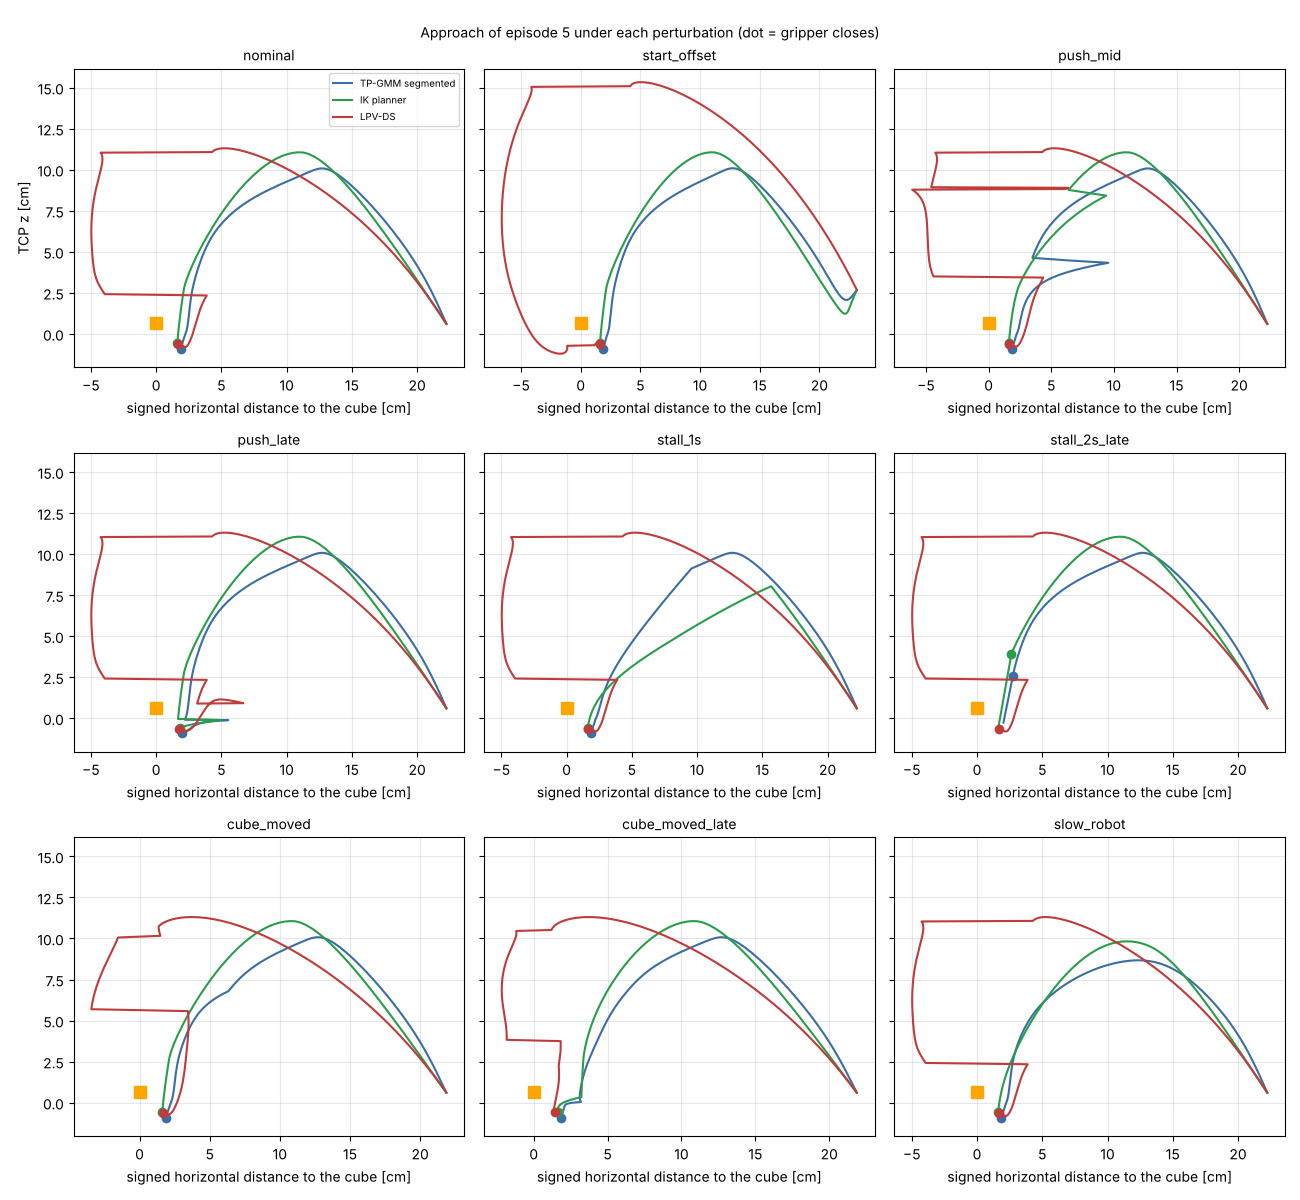
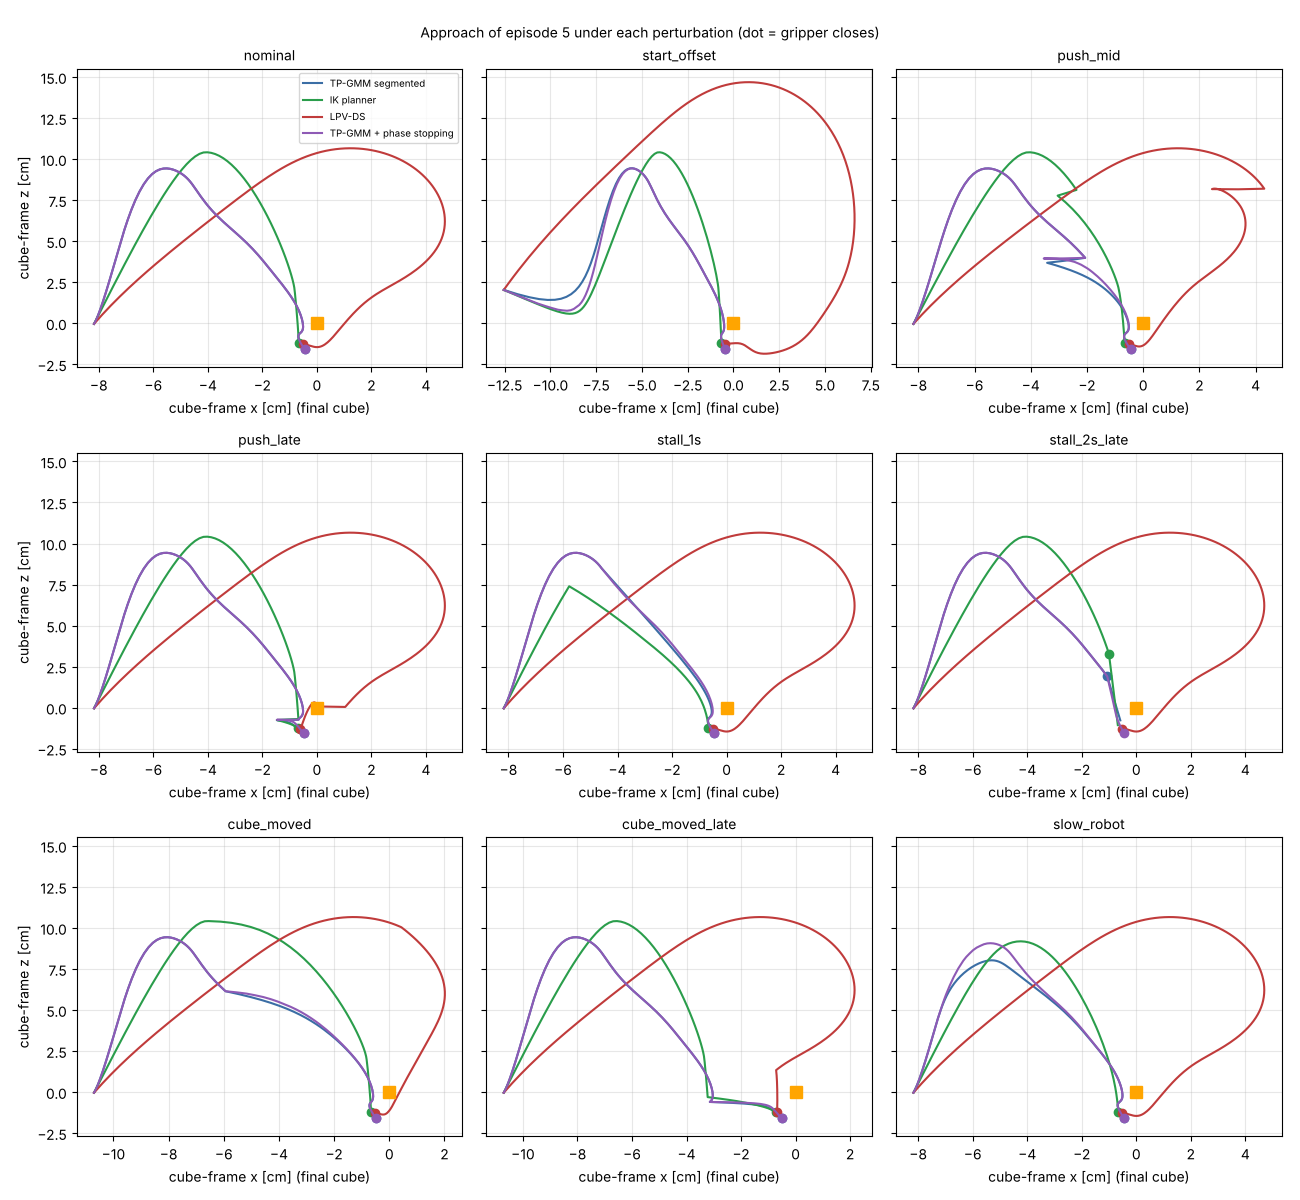
LPV-DS: gripper closes to the demonstrated holding level; perturbation report
- gripper on arrival = median final demonstrated value (the smooth g(d)
  map averages open and closed jaws near contact: 43 instead of ~20)
- perturbation benchmark: per-controller phase timing, fixed reference for
  the late cube move, cube-frame example plot, overshoot statistic and a
  computed reading (time-indexed tracking fails only under late stalls;
  phase stopping and LPV-DS do not)

Claude-Session: https://claude.ai/code/session_01KcAuLZM4HpM37KjBt7oyNQ

diff --git a/scripts/perturbation_benchmark.py b/scripts/perturbation_benchmark.py
@@ -154,7 +154,7 @@ class DSController:
             X.append(state[:3].copy()), G.append(state[4])
             if self.policy.distance("approach_grasp", state, frames["approach_grasp"]) < self.policy.meta["end_tolerance"]:
                 for _ in range(int(self.policy.meta["settle_s"] / DT)):  # gripper closes in place
-                    g = self.policy.prims["approach_grasp"].gripper_at(0.0)
+                    g = self.policy.prims["approach_grasp"].gripper_on_arrival()
                     state[4] += np.clip(g - state[4], -DT * 200, DT * 200)
                     X.append(state[:3].copy()), G.append(state[4])
                 break
@@ -226,10 +226,18 @@ def main() -> None:
                         nominal["pt"] = X[ig]
                     ref_pt = nominal["pt"]
                 dev = float(np.linalg.norm(X[ig] - ref_pt))
+                phi_f = lpv.frames(cube_final, yaw)[0]["approach_grasp"][1]
+                overshoot = float(((X[: ig + 1] - cube_final) @ rot_z(phi_f))[:, 0].max())  # beyond the cube, outward
                 rows.append(dict(cycle=int(r.episode), controller=cname, scenario=sname, deviation_mm=dev * 1e3,
-                                 success=dev < 0.010, time_to_grasp_s=ig * DT, peak_cmd_speed=umax))
+                                 success=dev < 0.010, time_to_grasp_s=ig * DT, peak_cmd_speed=umax,
+                                 overshoot_cm=overshoot * 100))
                 if i == 0:
-                    examples[(cname, sname)] = (X, ig, cube_final)
+                    phi_c = lpv.frames(cube_final, yaw)[0]["approach_grasp"][1]
+                    examples[(cname, sname)] = (X, ig, cube_final, phi_c)
+    for i, d in enumerate(demos["approach_grasp"]):  # same statistic for the demonstrations
+        Lc = (d.X[:, 1:4] - d.cube[:3]) @ rot_z(d.cube[3])
+        rows.append(dict(cycle=int(sub.episode[i]), controller="demonstration", scenario="nominal",
+                         overshoot_cm=float(Lc[:, 0].max() * 100)))
     res = pd.DataFrame(rows)
     out = resolve_path("outputs/evaluation")
     out.mkdir(parents=True, exist_ok=True)
@@ -242,6 +250,8 @@ def main() -> None:
 def write_report(res, examples, r0, seg, args, v_max, T_med) -> None:
     fig_dir = resolve_path("docs/figures")
     plt.rcParams.update({"axes.grid": True, "grid.alpha": 0.3})
+    demo_rows = res[res.controller == "demonstration"]
+    res = res[res.controller != "demonstration"]
     ctrl = list(dict.fromkeys(res.controller))
     colors = {"TP-GMM segmented": "#3b6ea5", "IK planner": "#2a9d4b", "LPV-DS": "#c03b3b",
               "TP-GMM + phase stopping": "#8e5ab5"}
@@ -249,15 +259,15 @@ def write_report(res, examples, r0, seg, args, v_max, T_med) -> None:
     axs = axs.ravel()
     for ax, s in zip(axs, SCENARIOS):
         for c in ctrl:
-            X, ig, cube = examples[(c, s)]
-            phi = 0.0
-            ax.plot(np.linalg.norm(X[:, :2] - cube[:2], axis=1) * 100 * np.sign(X[:, 0] - cube[0] + 1e-9) * -1,
-                    X[:, 2] * 100, c=colors[c], label=c)
-            ax.plot(-np.linalg.norm(X[ig, :2] - cube[:2]) * 100 * np.sign(X[ig, 0] - cube[0] + 1e-9), X[ig, 2] * 100,
-                    "o", c=colors[c], ms=6)
-        ax.plot(0, cube[2] * 100, "s", c="orange", ms=9)
-        ax.set_title(s, fontsize=10); ax.set_xlabel("signed horizontal distance to the cube [cm]")
-    axs[0].set_ylabel("TCP z [cm]"); axs[0].legend(fontsize=7)
+            X, ig, cube, phi = examples[(c, s)]
+            Lc = (X - cube) @ rot_z(phi)  # cube frame (x outward from the robot)
+            ax.plot(Lc[:, 0] * 100, Lc[:, 2] * 100, c=colors[c], label=c)
+            ax.plot(Lc[ig, 0] * 100, Lc[ig, 2] * 100, "o", c=colors[c], ms=6)
+        ax.plot(0, 0, "s", c="orange", ms=9)
+        ax.set_title(s, fontsize=10); ax.set_xlabel("cube-frame x [cm] (final cube)")
+    for ax in axs[::3]:
+        ax.set_ylabel("cube-frame z [cm]")
+    axs[0].legend(fontsize=7)
     fig.suptitle(f"Approach of episode {int(r0.episode)} under each perturbation (dot = gripper closes)", fontsize=10)
     fig.tight_layout(); fig.savefig(fig_dir / "perturbation_example.png", dpi=100); plt.close(fig)
 
@@ -298,7 +308,45 @@ def write_report(res, examples, r0, seg, args, v_max, T_med) -> None:
             x = res[(res.controller == c) & (res.scenario == s)]
             L.append(f"| {s} | {c} | {x.deviation_mm.median():.1f} | {x.deviation_mm.quantile(0.9):.1f} | "
                      f"{100 * x.success.mean():.0f} % | {x.time_to_grasp_s.median():.2f} | {x.peak_cmd_speed.median():.2f} |")
-    L += ["", "![](figures/perturbation_summary.png)\n", "![](figures/perturbation_example.png)\n"]
+    def med(c, sc, col="deviation_mm"):
+        return res[(res.controller == c) & (res.scenario == sc)][col].median()
+
+    def succ(c, sc):
+        return 100 * res[(res.controller == c) & (res.scenario == sc)].success.mean()
+
+    tp, pl, ds_, ph = "TP-GMM segmented", "IK planner", "LPV-DS", "TP-GMM + phase stopping"
+    L += ["", "## Reading\n",
+          f"- **Time-indexed tracking with feedback handles most perturbations.** With Kp = {args.kp} 1/s and "
+          "online replanning when the cube moves, the TP-GMM recovers from start offsets, pushes, moved cubes and a "
+          "slower robot before its gripper closes (100 % success).",
+          f"- **Its failure mode is timing.** After a 2 s stall late in the approach, the reference — and the gripper "
+          f"closing tied to its clock — has moved on: the jaws close {med(tp, 'stall_2s_late'):.0f} mm (TP-GMM) and "
+          f"{med(pl, 'stall_2s_late'):.0f} mm (IK planner) away from the grasp ({succ(tp, 'stall_2s_late'):.0f} % / "
+          f"{succ(pl, 'stall_2s_late'):.0f} % success). Catching up after a 1 s stall also demands bursts of speed "
+          f"({med(tp, 'stall_1s', 'peak_cmd_speed'):.2f} / {med(pl, 'stall_1s', 'peak_cmd_speed'):.2f} m/s commanded "
+          f"vs {med(tp, 'nominal', 'peak_cmd_speed'):.2f} nominal).",
+          f"- **LPV-DS is immune to timing** (stall: {med(ds_, 'stall_2s_late'):.1f} mm, {succ(ds_, 'stall_2s_late'):.0f} % "
+          "success): it has no clock, it reacts to the current state and closes on arrival. Its deviations elsewhere "
+          f"(≤ {max(med(ds_, s_) for s_ in SCENARIOS):.1f} mm median) come from the arrival tolerance.",
+          f"- **Phase stopping gives the TP-GMM the same immunity** ({med(ph, 'stall_2s_late'):.1f} mm, "
+          f"{succ(ph, 'stall_2s_late'):.0f} % success) without changing the model, and removes the catch-up bursts "
+          f"({med(ph, 'stall_1s', 'peak_cmd_speed'):.2f} m/s after a 1 s stall).",
+          "- **Conclusion:** the LPV-DS does not improve accuracy (see `evaluation_report.md`) and its robustness "
+          "advantage over the TP-GMM is limited to timing disturbances, which phase stopping also solves. Its "
+          "remaining benefit is the convergence guarantee from any state (e.g. far outside the demonstrations), "
+          "which this benchmark does not stress.",
+          "- **Path shape (nominal runs):** how far past the cube the approach goes (cube-frame x, outward from the "
+          "robot) before the grasp — p90 / share of cycles beyond 2 cm: "
+          + "; ".join(f"{c} {res[(res.controller == c) & (res.scenario == 'nominal')].overshoot_cm.quantile(0.9):.1f} cm / "
+                      f"{100 * (res[(res.controller == c) & (res.scenario == 'nominal')].overshoot_cm > 2).mean():.0f} %"
+                      for c in ctrl)
+          + f"; demonstrations {demo_rows.overshoot_cm.quantile(0.9):.1f} cm / "
+          f"{100 * (demo_rows.overshoot_cm > 2).mean():.0f} %. The LPV-DS's rotational component sometimes carries "
+          "the arm over the cube and down from the far side (see the example below) — stable, but not how the "
+          "operator approached.",
+          "- Caveats: kinematic simulation of the TCP (no dynamics, no joint limits, no contact); the real "
+          "robot adds servo lag and backlash.",
+          "", "![](figures/perturbation_summary.png)\n", "![](figures/perturbation_example.png)\n"]
     resolve_path("docs/perturbation_report.md").write_text("\n".join(L) + "\n", encoding="utf-8")
 
 

diff --git a/so101_tpgmm/lpvds/policy.py b/so101_tpgmm/lpvds/policy.py
@@ -47,23 +47,31 @@ class PrimitiveDS:
     v_max: float
     median_duration: float
     v_min: float = 0.0  # speed floor near the target (demonstrated median speed 5-30 mm from the end)
+    g_final: float | None = None  # gripper command on arrival: median demonstrated final value (hold / release)
 
     def to_dict(self) -> dict:
         return {"pos": self.pos.to_dict(), "heading": [self.heading.log_gain.tolist(), self.heading.target],
                 "pitch": [self.pitch.log_gain.tolist(), self.pitch.target],
                 "gripper": [self.gripper.priors.tolist(), self.gripper.means.tolist(), self.gripper.covs.tolist()],
-                "v_max": self.v_max, "median_duration": self.median_duration, "v_min": self.v_min}
+                "v_max": self.v_max, "median_duration": self.median_duration, "v_min": self.v_min,
+                "g_final": self.g_final}
 
     @classmethod
     def from_dict(cls, d: dict) -> "PrimitiveDS":
         g = d["gripper"]
         return cls(LPVDS.from_dict(d["pos"]), ScalarDS(np.array(d["heading"][0]), d["heading"][1]),
                    ScalarDS(np.array(d["pitch"][0]), d["pitch"][1]), GMM(np.array(g[0]), np.array(g[1]), np.array(g[2])),
-                   d["v_max"], d["median_duration"], d.get("v_min", 0.0))
+                   d["v_max"], d["median_duration"], d.get("v_min", 0.0), d.get("g_final"))
 
     def gripper_at(self, dist: float) -> float:
         m, _ = gmr(self.gripper, np.array([[dist]]), [0], [1])
         return float(m[0, 0])
+
+    def gripper_on_arrival(self) -> float:
+        """Value commanded once the attractor is reached. Not g(0) of the smooth map: near the contact the
+        demonstrations mix still-open and already-closed jaws, and the regression averages them (~43
+        instead of the ~20 holding level)."""
+        return self.g_final if self.g_final is not None else self.gripper_at(0.0)
 
 
 def fit_primitive(demos: list[Demo], name: str, K: int | None = None) -> tuple[PrimitiveDS, dict]:
@@ -90,7 +98,9 @@ def fit_primitive(demos: list[Demo], name: str, K: int | None = None) -> tuple[P
     near = (dist > 0.005) & (dist < 0.03)
     v_min = float(np.median(np.linalg.norm(V[near], axis=1))) if near.any() else 0.0
     info.update(target=target.tolist())
-    return PrimitiveDS(model, heading, pitch, gm, v_max, float(np.median([d.duration for d in demos])), v_min), info
+    g_final = float(np.median([d.X[-1, 5] for d in demos]))
+    return (PrimitiveDS(model, heading, pitch, gm, v_max, float(np.median([d.duration for d in demos])), v_min, g_final),
+            info)
 
 
 class GripperLatch:
@@ -188,7 +198,7 @@ class LPVDSPolicy:
                 if latch is not None:
                     g = latch(g)
                 if settle is not None:  # arrived: stop and actuate the gripper (close / open)
-                    v, hd, td, g = np.zeros(3), 0.0, 0.0, p.gripper_at(0.0)
+                    v, hd, td, g = np.zeros(3), 0.0, 0.0, p.gripper_on_arrival()
                 state[:3] += dt * v
                 state[3] += dt * hd
                 state[5] += dt * td

diff --git a/docs/perturbation_report.md b/docs/perturbation_report.md
@@ -5,7 +5,7 @@ _Generated by `scripts/perturbation_benchmark.py`. Raw results: `outputs/evaluat
 ## Setup
 
 - 80 cycles (stratified), approach_grasp primitive, kinematic TCP simulation at 30 Hz. All controllers share the speed limit 0.31 m/s (99th percentile of demonstrated approach speeds).
-- Time-indexed controllers track their reference with u = ṙ(t) + Kp(r(t) − x), Kp = 5.0 1/s; the gripper follows the reference's time profile. LPV-DS: u = f(x); gripper from the distance to the attractor.
+- Time-indexed controllers track their reference with u = ṙ(t) + Kp(r(t) − x), Kp = 5.0 1/s; the gripper follows the reference's time profile. **TP-GMM + phase stopping**: same reference, but its clock advances at dτ/dt = 1/(1 + α‖r(τ) − x‖²), α = 2500 1/m² (half speed at 2 cm of tracking error), so the reference and its gripper wait for the robot. LPV-DS: u = f(x); gripper from the distance to the attractor, latched open once opened and closed on arrival.
 - Scenarios, timed at the same phase of each controller's own nominal approach (median demonstrated approach 4.3 s): start offset 5 cm (random direction, partly upwards); push 4 cm (horizontal) at 50 % (`push_mid`) or 85 % (`push_late`) of the approach; stall 1 s at 30 % (`stall_1s`) or 2 s at 60 % (`stall_2s_late`); cube moved 3 cm at 40 % or 80 % with the new frame given to every controller (time-indexed ones replan the rest of their reference); `slow_robot`: the arm can only reach 40 % of the speed limit (load, low gains, a slower robot than the demonstrator's). The late variants leave the time-indexed reference little or no time to recover. LPV-DS arrival tolerance {args.ds_tolerance * 1e3:.0f} mm.
 - **Grasp deviation**: TCP position when the gripper closes vs the grasp point of the same controller without perturbation (final cube pose). Success: < 10 mm. Models trained on all usable cycles (this is a robustness test, not a generalization test).
 
@@ -15,31 +15,50 @@ _Generated by `scripts/perturbation_benchmark.py`. Raw results: `outputs/evaluat
 |---|---|---|---|---|---|---|
 | nominal | TP-GMM segmented | 0.0 | 0.0 | 100 % | 4.23 | 0.23 |
 | nominal | IK planner | 0.0 | 0.0 | 100 % | 3.73 | 0.16 |
-| nominal | LPV-DS | 0.0 | 0.0 | 100 % | 4.17 | 0.10 |
+| nominal | LPV-DS | 0.0 | 0.0 | 100 % | 4.27 | 0.10 |
+| nominal | TP-GMM + phase stopping | 0.0 | 0.0 | 100 % | 4.23 | 0.23 |
 | start_offset | TP-GMM segmented | 0.0 | 0.0 | 100 % | 4.23 | 0.25 |
 | start_offset | IK planner | 0.0 | 0.0 | 100 % | 3.73 | 0.25 |
-| start_offset | LPV-DS | 0.6 | 2.9 | 100 % | 4.28 | 0.11 |
+| start_offset | LPV-DS | 0.6 | 2.9 | 100 % | 4.38 | 0.11 |
+| start_offset | TP-GMM + phase stopping | 0.0 | 0.0 | 100 % | 4.43 | 0.25 |
 | push_mid | TP-GMM segmented | 0.0 | 0.0 | 100 % | 4.23 | 0.37 |
 | push_mid | IK planner | 0.0 | 0.0 | 100 % | 3.73 | 0.23 |
-| push_mid | LPV-DS | 1.1 | 3.4 | 100 % | 4.65 | 0.10 |
+| push_mid | LPV-DS | 1.2 | 3.4 | 100 % | 4.92 | 0.10 |
+| push_mid | TP-GMM + phase stopping | 0.0 | 0.0 | 100 % | 4.53 | 0.37 |
 | push_late | TP-GMM segmented | 1.3 | 1.3 | 100 % | 4.23 | 0.23 |
 | push_late | IK planner | 1.8 | 1.8 | 100 % | 3.73 | 0.20 |
-| push_late | LPV-DS | 2.9 | 42.0 | 80 % | 4.68 | 0.10 |
+| push_late | LPV-DS | 2.0 | 3.4 | 100 % | 5.27 | 0.10 |
+| push_late | TP-GMM + phase stopping | 0.5 | 0.5 | 100 % | 4.40 | 0.23 |
 | stall_1s | TP-GMM segmented | 0.0 | 0.0 | 100 % | 4.23 | 0.39 |
 | stall_1s | IK planner | 0.0 | 0.1 | 100 % | 3.73 | 0.55 |
-| stall_1s | LPV-DS | 0.0 | 0.0 | 100 % | 5.17 | 0.10 |
+| stall_1s | LPV-DS | 0.0 | 0.0 | 100 % | 5.27 | 0.10 |
+| stall_1s | TP-GMM + phase stopping | 0.0 | 0.0 | 100 % | 4.95 | 0.23 |
 | stall_2s_late | TP-GMM segmented | 35.3 | 37.2 | 0 % | 4.23 | 0.23 |
 | stall_2s_late | IK planner | 45.6 | 45.9 | 0 % | 3.73 | 0.23 |
-| stall_2s_late | LPV-DS | 0.0 | 0.0 | 100 % | 6.17 | 0.10 |
+| stall_2s_late | LPV-DS | 0.0 | 0.0 | 100 % | 6.27 | 0.10 |
+| stall_2s_late | TP-GMM + phase stopping | 0.4 | 0.5 | 100 % | 5.33 | 0.23 |
 | cube_moved | TP-GMM segmented | 0.0 | 0.0 | 100 % | 4.23 | 0.23 |
 | cube_moved | IK planner | 0.0 | 0.0 | 100 % | 3.73 | 0.17 |
-| cube_moved | LPV-DS | 0.9 | 3.0 | 100 % | 4.22 | 0.10 |
+| cube_moved | LPV-DS | 0.8 | 3.0 | 100 % | 4.32 | 0.10 |
+| cube_moved | TP-GMM + phase stopping | 0.0 | 0.0 | 100 % | 4.33 | 0.23 |
 | cube_moved_late | TP-GMM segmented | 0.3 | 0.3 | 100 % | 4.23 | 0.23 |
 | cube_moved_late | IK planner | 0.5 | 0.6 | 100 % | 3.73 | 0.16 |
-| cube_moved_late | LPV-DS | 2.4 | 3.6 | 92 % | 4.65 | 0.10 |
+| cube_moved_late | LPV-DS | 2.2 | 3.5 | 100 % | 4.83 | 0.10 |
+| cube_moved_late | TP-GMM + phase stopping | 0.2 | 0.2 | 100 % | 4.37 | 0.23 |
 | slow_robot | TP-GMM segmented | 0.0 | 0.0 | 100 % | 4.23 | 0.31 |
 | slow_robot | IK planner | 0.0 | 0.0 | 100 % | 3.73 | 0.21 |
-| slow_robot | LPV-DS | 0.0 | 0.2 | 100 % | 4.18 | 0.10 |
+| slow_robot | LPV-DS | 0.0 | 0.2 | 100 % | 4.28 | 0.10 |
+| slow_robot | TP-GMM + phase stopping | 0.0 | 0.0 | 100 % | 4.37 | 0.23 |
+
+## Reading
+
+- **Time-indexed tracking with feedback handles most perturbations.** With Kp = 5.0 1/s and online replanning when the cube moves, the TP-GMM recovers from start offsets, pushes, moved cubes and a slower robot before its gripper closes (100 % success).
+- **Its failure mode is timing.** After a 2 s stall late in the approach, the reference — and the gripper closing tied to its clock — has moved on: the jaws close 35 mm (TP-GMM) and 46 mm (IK planner) away from the grasp (0 % / 0 % success). Catching up after a 1 s stall also demands bursts of speed (0.39 / 0.55 m/s commanded vs 0.23 nominal).
+- **LPV-DS is immune to timing** (stall: 0.0 mm, 100 % success): it has no clock, it reacts to the current state and closes on arrival. Its deviations elsewhere (≤ 2.2 mm median) come from the arrival tolerance.
+- **Phase stopping gives the TP-GMM the same immunity** (0.4 mm, 100 % success) without changing the model, and removes the catch-up bursts (0.23 m/s after a 1 s stall).
+- **Conclusion:** the LPV-DS does not improve accuracy (see `evaluation_report.md`) and its robustness advantage over the TP-GMM is limited to timing disturbances, which phase stopping also solves. Its remaining benefit is the convergence guarantee from any state (e.g. far outside the demonstrations), which this benchmark does not stress.
+- **Path shape (nominal runs):** how far past the cube the approach goes (cube-frame x, outward from the robot) before the grasp — p90 / share of cycles beyond 2 cm: TP-GMM segmented -0.4 cm / 2 %; IK planner -0.6 cm / 0 %; LPV-DS 6.4 cm / 18 %; TP-GMM + phase stopping -0.4 cm / 2 %; demonstrations 2.0 cm / 11 %. The LPV-DS's rotational component sometimes carries the arm over the cube and down from the far side (see the example below) — stable, but not how the operator approached.
+- Caveats: kinematic simulation of the TCP (no dynamics, no joint limits, no contact); the real robot adds servo lag and backlash.
 
 ![](figures/perturbation_summary.png)
 
